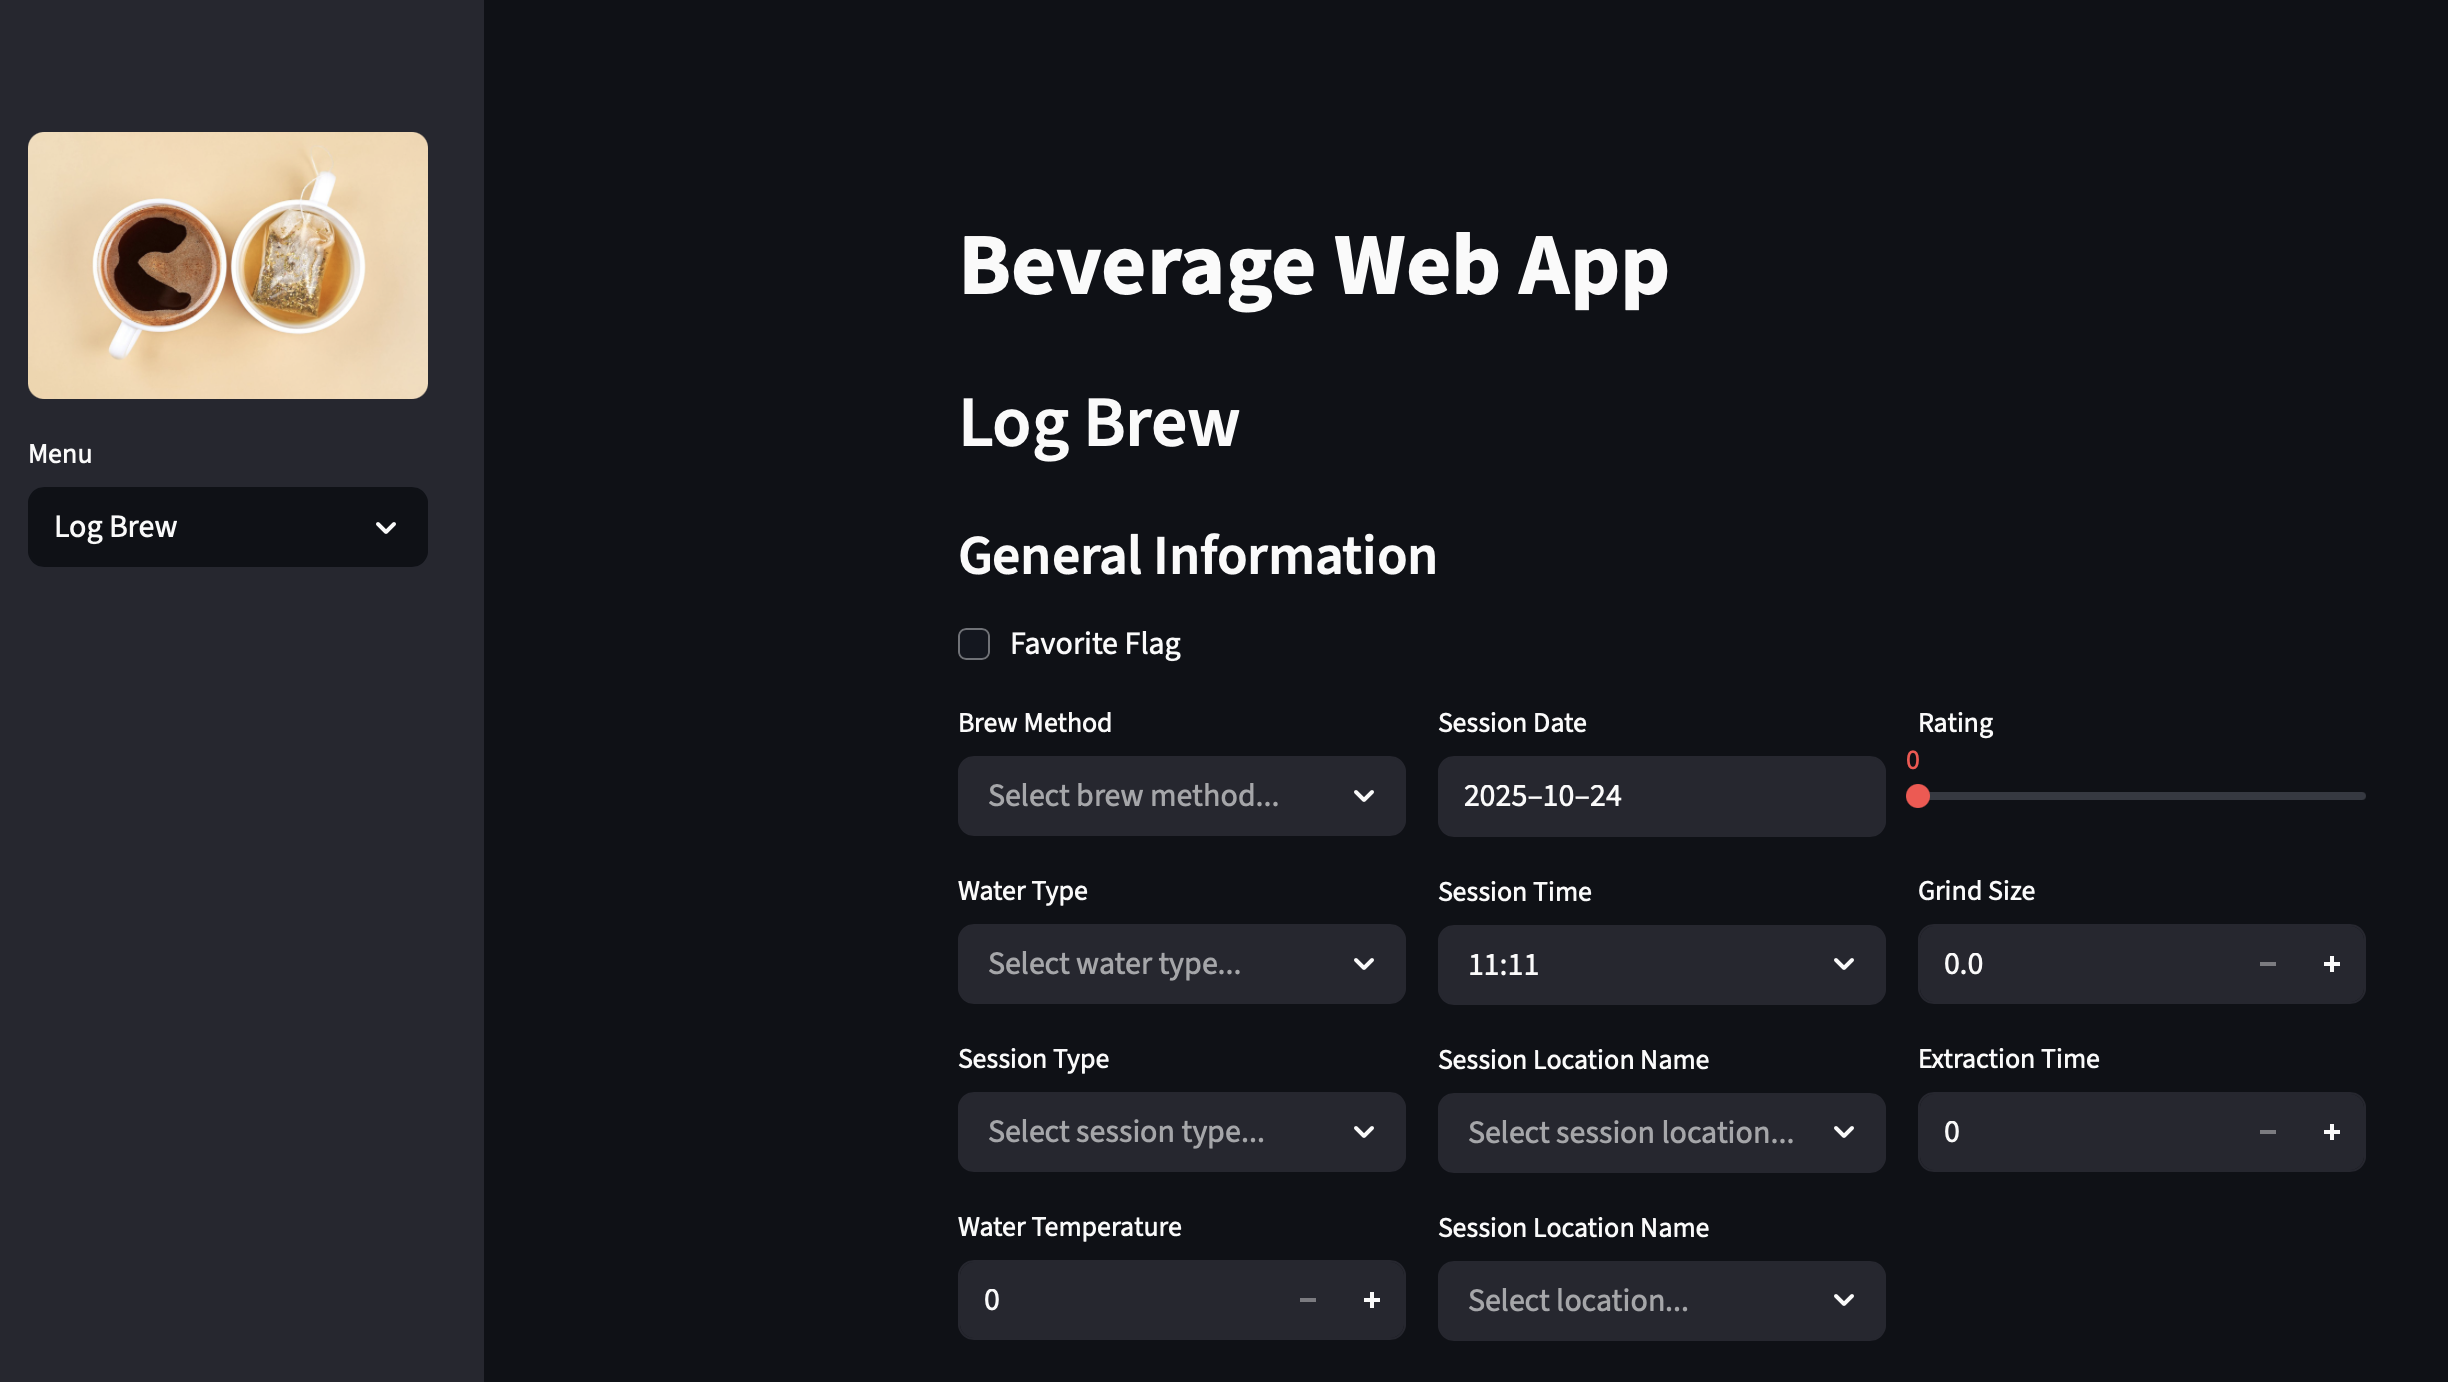
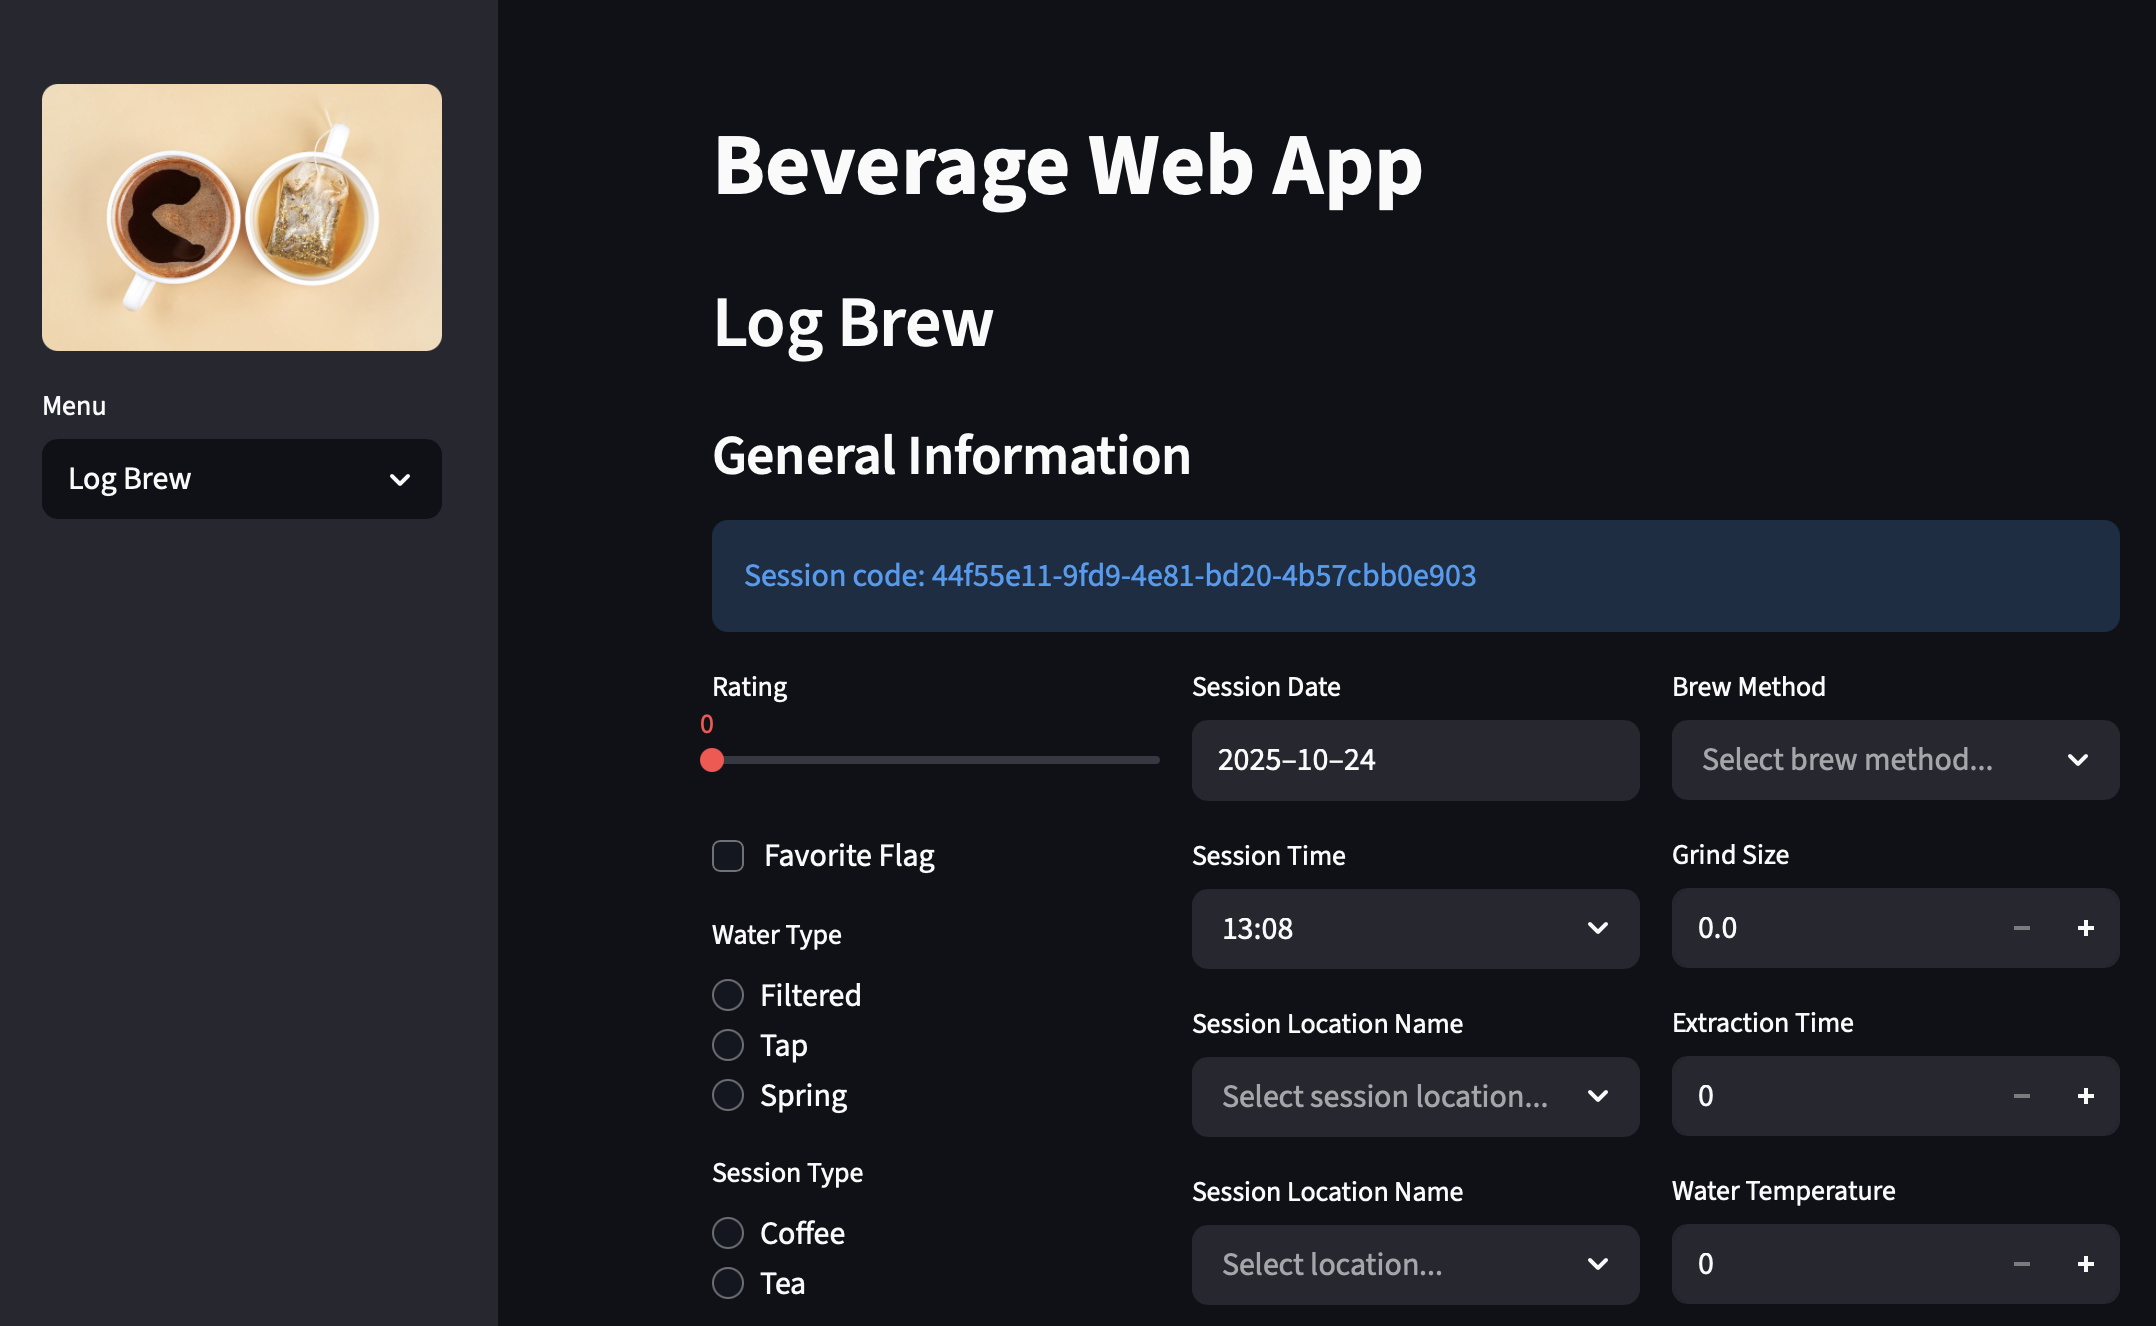
Cleaned data entry UI; updated screenshots

Changed region(s): [[0.3108, 0.0928, 0.9944, 0.9894], [0.0, 0.0, 0.2486, 1.0], [0.9634, 0.6493, 0.9944, 0.7421]]

diff --git a/streamlit_app/app.py b/streamlit_app/app.py
@@ -42,34 +42,32 @@ def main():
 
         st.header('Log Brew')
 
-        session_code = uuid.uuid4()
-        # st.write(f"Session Code: {session_code}")
+        if 'session_code' not in st.session_state:
+            st.session_state.session_code = uuid.uuid4()
+
         st.subheader('General Information')
 
-        favorite_flag = st.checkbox("Favorite Flag")
+        st.info(f'Session code: {st.session_state.session_code}')
+
 
         col1, col2, col3 = st.columns(3)
+
+
         with col1:
-            brew_method = st.selectbox(
-                "Brew Method",
-                ("Espresso", "Western"),
-                index=None,
-                placeholder="Select brew method...",
-            )
-            water_type = st.selectbox(
+
+            rating = st.slider("Rating", min_value=0, step=1, max_value=10)
+            favorite_flag = st.checkbox("Favorite Flag")
+
+            water_type = st.radio(
                 "Water Type",
-                ("Filtered", "Tap"),
-                index=None,
-                placeholder="Select water type...",
+                ("Filtered", "Tap", "Spring"),
+                index=None
             )
-            session_type = st.selectbox(
+            session_type = st.radio(
                 "Session Type",
                 ("Coffee", "Tea"),
                 index=None,
-                placeholder="Select session type...",
             )
-            water_temperature = st.number_input("Water Temperature", min_value=0, step=1, max_value=100)
-
 
         with col2:
             session_date = st.date_input("Session Date", format="YYYY-MM-DD")
@@ -77,21 +75,31 @@ def main():
             session_datetime = str(session_date) + " " + str(session_time)
             session_location_name = st.selectbox(
                 "Session Location Name",
-                ("House", "Cafe", "Outdoors"),
+                ("House", "Shop", "Outdoors", "Work", "Ceremonial"),
                 index=None,
                 placeholder="Select session location...",
             )
+
             location_name = st.selectbox(
                 "Session Location Name",
-                ("Home", "Mom's"),
+                ("Quebec Ave", "Mom's"),
                 index=None,
                 placeholder="Select location...",
             )
+
+
         with col3:
-            rating = st.slider("Rating", min_value=0, step=1, max_value=10)
+            brew_method = st.selectbox(
+                "Brew Method",
+                ("Espresso", "Western", "Gongfu", "Grandpa", "Kyusu", "Cold Brew", "Matcha", "Filter", "Moka", "Pour Over"),
+                index=None,
+                placeholder="Select brew method...",
+            )
             grind_size = st.number_input("Grind Size", min_value=0.0, max_value=30.0, step=0.1, format="%0.1f")
             extraction_number = 1
             extraction_time = st.number_input("Extraction Time", min_value=0, step=1, max_value=10000)
+
+            water_temperature = st.number_input("Water Temperature", min_value=0, step=1, max_value=100)
 
         st.subheader("Notes")
 
@@ -133,7 +141,7 @@ def main():
             )
 
         new_ingredient_rows = pd.DataFrame([{
-            "session_code": session_code,
+            "session_code": st.session_state.session_code,
             "product_name": ingredient_name,
             "vendor_name": ingredient_vendor_name,
             "production_date": production_date,
@@ -200,7 +208,7 @@ def main():
             with col3:
                 entry["role"] = st.selectbox(
                     "Role",
-                    ("Accessories", "Cup"),
+                    ("Accessories", "Cup", "Kettle", "Teapot", "Gongfu", "Faircup", "Espresso Maker"),
                     index=0,
                     key=f"role_{i}"
                 )
@@ -208,7 +216,7 @@ def main():
         new_equipment_rows = pd.DataFrame(st.session_state.entries)
 
         # insert first column at position 0
-        new_equipment_rows.insert(0, "session_code", session_code)
+        new_equipment_rows.insert(0, "session_code", st.session_state.session_code,)
 
         # for remaining columns, safest is to just assign them
         new_equipment_rows["production_date"] = np.nan
@@ -238,7 +246,7 @@ def main():
         st.write('-------------')
 
         if st.button("Add new rows to csv files", width="stretch", type="primary"):
-            new_session_row = pd.DataFrame([[session_code,
+            new_session_row = pd.DataFrame([[st.session_state.session_code,
                                              brew_method,
                                              rating,
                                              water_type,
@@ -254,7 +262,7 @@ def main():
             st.session_state["sessions"].to_csv(f"{csv_file_path}/sessions.csv", index=False)
             st.success("Session row added!")
 
-            new_extraction_row = pd.DataFrame([[session_code,
+            new_extraction_row = pd.DataFrame([[st.session_state.session_code,
                                                 extraction_number,
                                                 extraction_time,
                                                 water_temperature,
